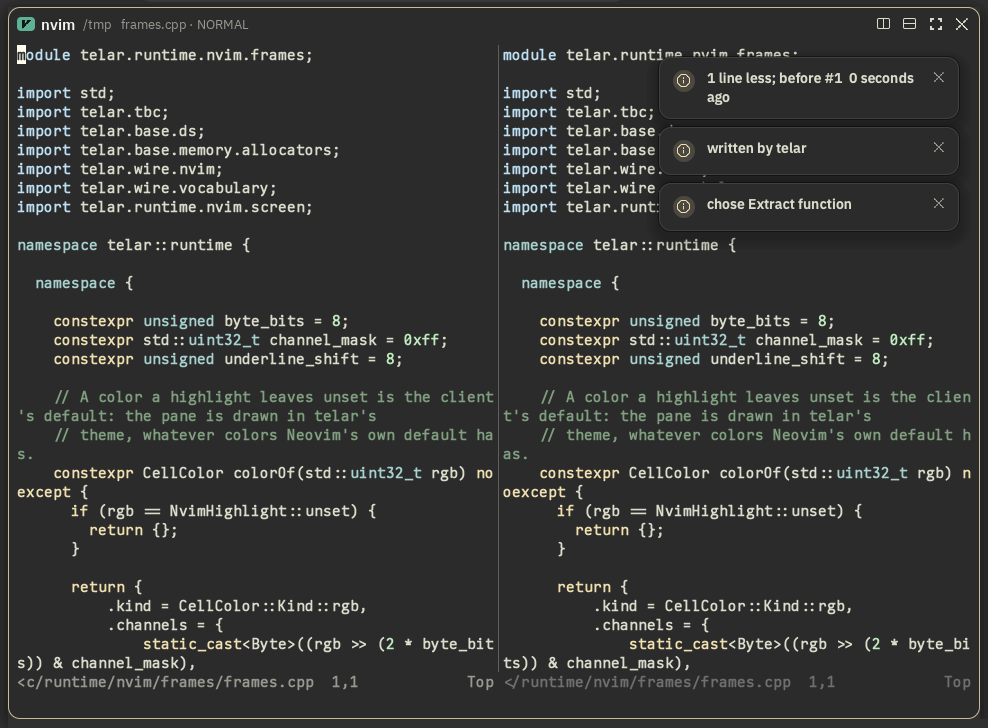
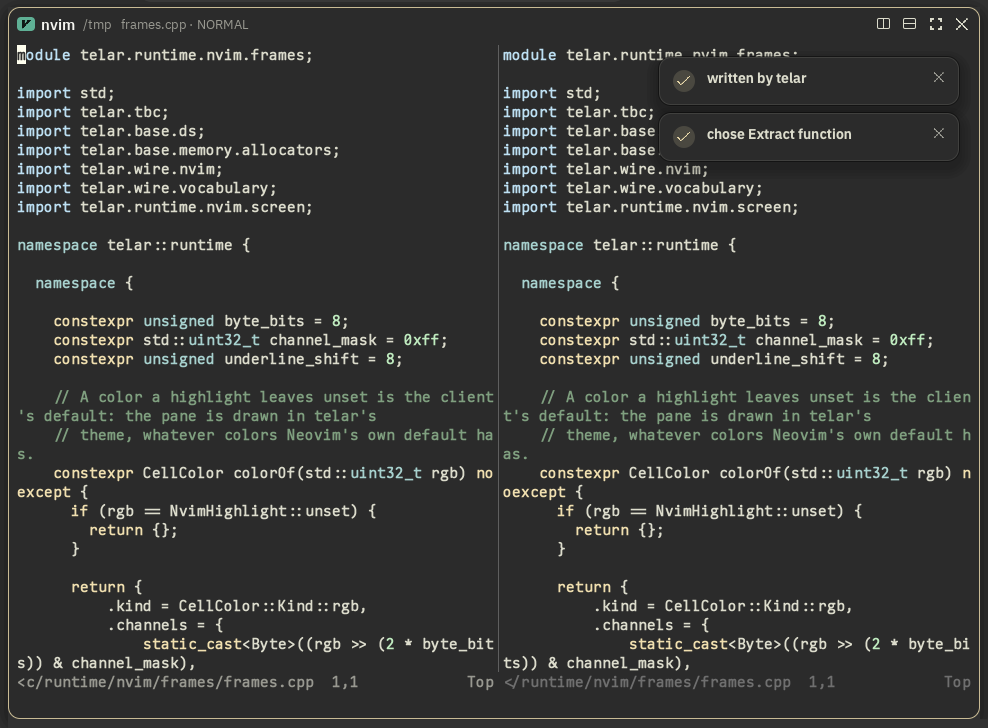
Draw a completion's kind first, as the design does, and a notice's check
The kind's chip leads the row with the kind's icon, the item's detail
ends it; a plain notice shows a check, as the design's written file
does. The editor's case undoes its completion without a message, which
the later pictures showed.

Changed region(s): [[0.668, 0.0907, 0.9413, 0.3022], [0.9413, 0.1511, 0.9717, 0.1813]]

diff --git a/src/gui/ui/app/panes/nvim/NvimPopupMenu.qml b/src/gui/ui/app/panes/nvim/NvimPopupMenu.qml
@@ -30,9 +30,10 @@ Item {
     readonly property bool infoRight: x + width + 6 * ratio + infoWidth <= parent.width - 8 * ratio
     readonly property int visibleRows: Math.min(items.length, 10)
     readonly property real rowHeight: 26 * ratio
-    // The column of the kinds' icons, kept for every row once one item has a kind.
-    readonly property bool iconed: items.some(item => (item.icon ?? "").length > 0)
-    readonly property real iconSide: Math.round(typography.body * 1.15)
+    // The column of the kinds' chips, kept for every row once one item says its kind.
+    readonly property bool kinded: items.some(item => (item.kind ?? "").length > 0)
+    readonly property real iconSide: Math.round(typography.body * 1.05)
+    readonly property real chipWidth: 26 * ratio
     readonly property real padding: 4 * ratio
     // The first row shown: the selection is kept in view.
     readonly property int firstRow: Math.max(0, Math.min(items.length - visibleRows, selected - Math.floor(visibleRows / 2)))
@@ -93,61 +94,67 @@ Item {
                     onActivated: root.picked(row.itemIndex)
                 }
 
-                ChromeIcon {
-                    x: 8 * root.ratio
+                // What kind of thing the word is, first, as a chip in the kind's color: its icon, or
+                // its name when telar has no icon for it.
+                Item {
+                    id: kindChip
+                    readonly property string label: row.item.kind ?? ""
+                    readonly property bool iconed: (row.item.icon ?? "").length > 0
+                    x: 6 * root.ratio
                     y: Math.round((parent.height - height) / 2)
-                    width: root.iconSide
-                    height: root.iconSide
-                    glyph: row.item.icon ?? ""
-                    pixelSize: root.iconSide
-                    color: row.tone
-                    visible: root.iconed && (row.item.icon ?? "").length > 0
+                    width: root.chipWidth
+                    height: 18 * root.ratio
+                    visible: label.length > 0
+
+                    NativeRoundedRectangle {
+                        anchors.fill: parent
+                        radius: ChromeStyle.smallRadius * root.ratio
+                        color: Qt.alpha(row.tone, 0.16)
+                    }
+
+                    ChromeIcon {
+                        anchors.centerIn: parent
+                        width: root.iconSide
+                        height: root.iconSide
+                        glyph: row.item.icon ?? ""
+                        pixelSize: root.iconSide
+                        color: row.tone
+                        visible: kindChip.iconed
+                    }
+
+                    Text {
+                        anchors.centerIn: parent
+                        width: parent.width - 4 * root.ratio
+                        horizontalAlignment: Text.AlignHCenter
+                        text: kindChip.label
+                        color: row.tone
+                        font.pixelSize: root.typography.small
+                        textFormat: Text.PlainText
+                        elide: Text.ElideRight
+                        visible: !kindChip.iconed
+                    }
                 }
 
                 CellText {
                     id: word
-                    x: 8 * root.ratio + (root.iconed ? root.iconSide + 6 * root.ratio : 0)
+                    x: root.kinded ? 14 * root.ratio + root.chipWidth : 8 * root.ratio
                     height: parent.height
-                    width: Math.min(implicitWidth, Math.max(0, parent.width - x - kindChip.width - 16 * root.ratio))
+                    width: Math.min(implicitWidth, Math.max(0, parent.width - x - detail.implicitWidth - 20 * root.ratio))
                     text: row.item.word ?? ""
                     grid: root.typography.grid
                     color: row.chosen ? root.colors.text : root.colors.subtext0
                     clip: true
                 }
 
+                // What the item adds of itself, as its type, at the row's end.
                 ChromeText {
-                    x: word.x + word.width + 12 * root.ratio
-                    width: Math.max(0, kindChip.x - x - 8 * root.ratio)
+                    id: detail
+                    x: Math.max(word.x + word.width + 12 * root.ratio, parent.width - width - 10 * root.ratio)
+                    width: Math.min(implicitWidth, Math.max(0, parent.width - word.x - word.width - 22 * root.ratio))
                     height: parent.height
                     text: row.item.menu ?? ""
                     pixelSize: root.typography.small
                     color: Qt.alpha(root.colors.text, 0.5)
-                }
-
-                // What kind of thing the word is: a function, a field, a snippet.
-                Item {
-                    id: kindChip
-                    readonly property string label: row.item.kind ?? ""
-                    visible: label.length > 0
-                    width: visible ? kindLabel.implicitWidth + 12 * root.ratio : 0
-                    height: 18 * root.ratio
-                    x: parent.width - width - 6 * root.ratio
-                    y: Math.round((parent.height - height) / 2)
-
-                    NativeRoundedRectangle {
-                        anchors.fill: parent
-                        radius: ChromeStyle.smallRadius * root.ratio
-                        color: Qt.alpha(row.tone, 0.14)
-                    }
-
-                    Text {
-                        id: kindLabel
-                        anchors.centerIn: parent
-                        text: kindChip.label
-                        color: row.tone
-                        font.pixelSize: root.typography.small
-                        textFormat: Text.PlainText
-                    }
                 }
             }
         }

diff --git a/src/gui/ui/app/panes/nvim/NvimMessages.qml b/src/gui/ui/app/panes/nvim/NvimMessages.qml
@@ -102,7 +102,7 @@ Item {
                         anchors.centerIn: parent
                         width: Math.round(root.typography.body * 1.05)
                         height: width
-                        glyph: notice.failure ? "\uea87" : notice.caution ? "\uea6c" : "\uea74"
+                        glyph: notice.failure ? "\uea87" : notice.caution ? "\uea6c" : "\ueab2"
                         pixelSize: width
                         color: notice.tone
                     }

diff --git a/src/gui/tests/quick_test.cpp b/src/gui/tests/quick_test.cpp
@@ -997,7 +997,7 @@ return {api_version = 2, client = {
       QVERIFY2(!kinds().contains(QString{}) && kinds().removeDuplicates() == 0, qPrintable(kinds().join(QLatin1Char(' '))));
       shoot(QStringLiteral("editor-completion-kinds"));
       press(Qt::Key_Escape, QString{});
-      view->send(QStringLiteral("u"));
+      view->send(QStringLiteral("<Cmd>silent undo<CR>"));
       QTRY_VERIFY_WITH_TIMEOUT(!view->popupMenu().value(QStringLiteral("visible")).toBool() && view->mode() == QStringLiteral("normal"), runtime_wait_ms);
 
       // What Neovim says arrives as a notice, and asks for no key to go away.
